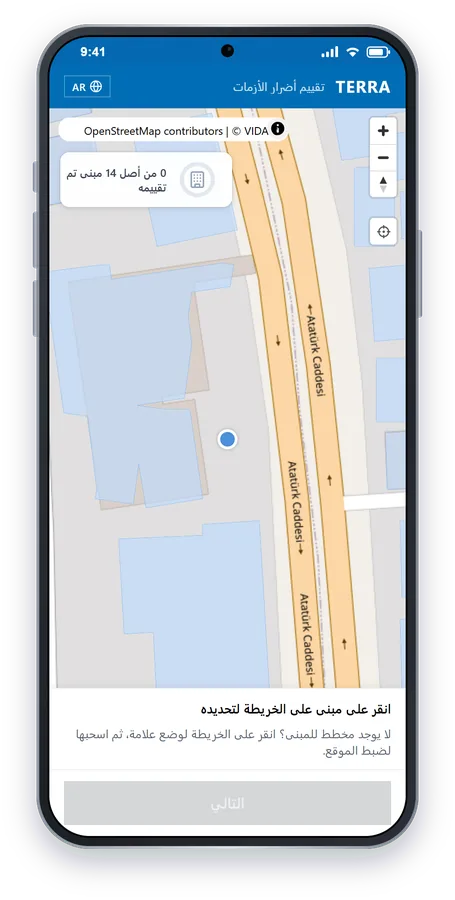
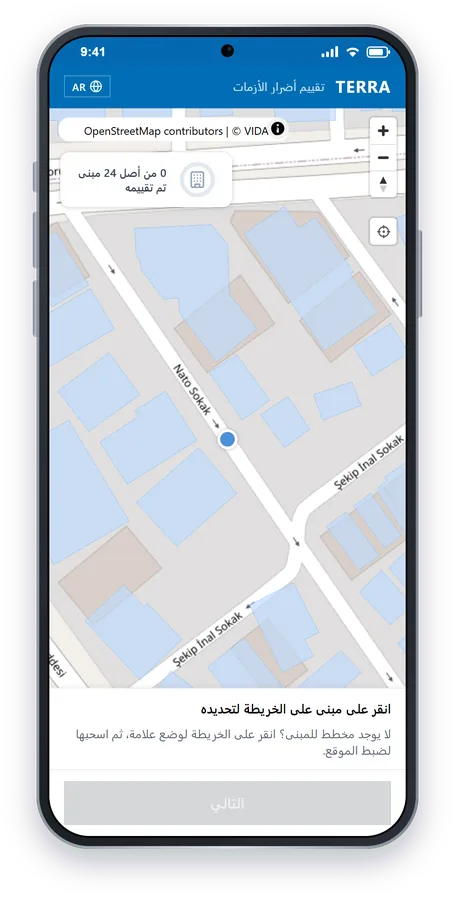
docs: recapture reporter map screens where footprints align with the basemap

diff --git a/scripts/guide-images/README.md b/scripts/guide-images/README.md
@@ -18,7 +18,7 @@ Requires Node 22+, the frontend dependencies (`cd frontend && npm install`), Goo
 
 ```bash
 # 1. capture (dashboard views need the evaluator demo password; never commit it)
-TERRA_DEMO_PASSWORD=… node scripts/guide-images/capture.mjs all   # or: time | priority | phone
+TERRA_DEMO_PASSWORD=… node scripts/guide-images/capture.mjs all   # or: time | priority | phone | flow
 
 # 2. frame (set: guides | pitch)
 node scripts/guide-images/mockups.mjs guides
@@ -35,7 +35,9 @@ To frame the map on Antakya, it filters `/reports` responses **inside its own br
 
 ## Source screenshots
 
-Some community-flow and admin screenshots come from the earlier visual-guide capture run, not `capture.mjs`. The phone flow needs a building tap and a photo upload, and an upload would write to the live photo bucket.
+`capture.mjs flow` captures the reporter's map screens. They're taken at Nato Sokak, Antakya, where the building footprints line up well with the basemap.
+
+The photo, damage, survey and confirmation screens, and the admin screens, come from the earlier visual-guide capture run. Getting past the photo step needs a real upload, which would write to the live photo bucket.
 
 Point `GUIDE_SOURCE_DIR` at those screenshots (default `submission/visual-guide-assets`, kept locally). `GUIDE_CAPTURE_DIR` overrides where `mockups.mjs` reads `capture.mjs` output from.
 
